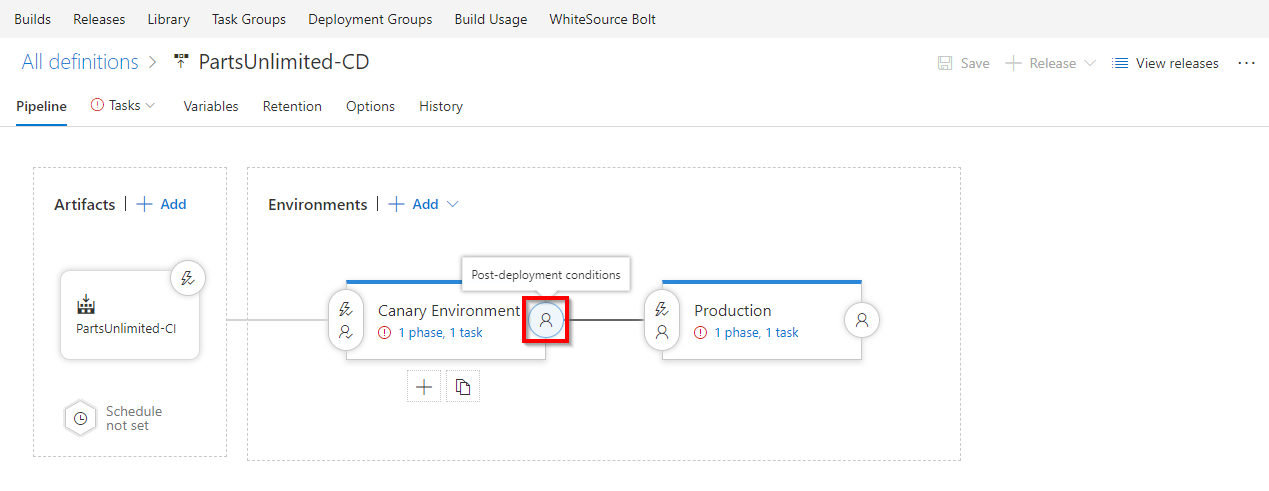
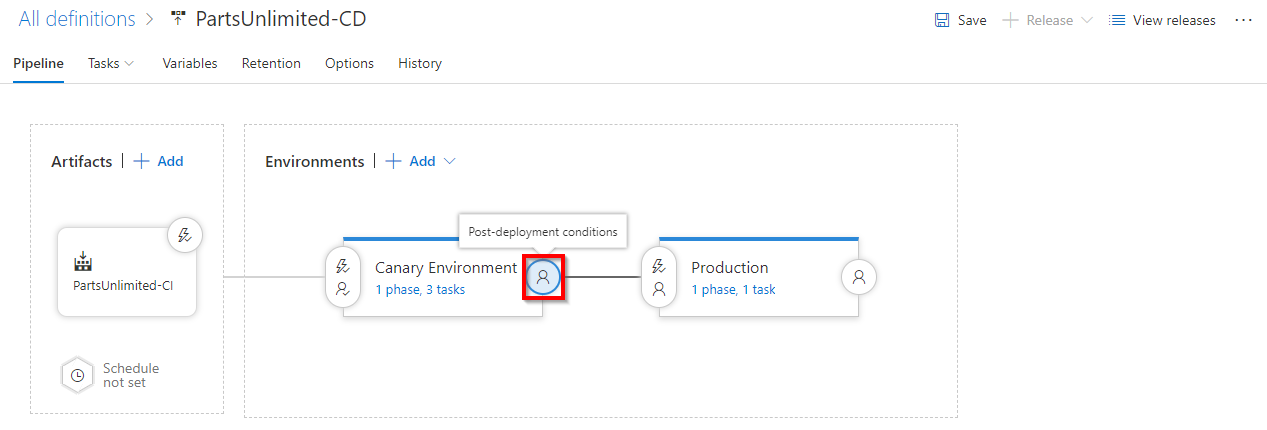
Updated lab contents

diff --git a/readme.md b/readme.md
@@ -27,7 +27,7 @@ If there are any active bugs, deployment will not happen to Canary environment. 
 1. You will need a **Visual Studio Team Services Account**. If you do not have one, you can sign up for free [here](https://www.visualstudio.com/team-services/)
 
 
-1. **Microsoft Azure Account:** You will need a valid and active azure account for the lab
+1. **Microsoft Azure Account:** You will need an active Azure subscription for the lab. You should be an [Owner](https://docs.microsoft.com/en-us/azure/role-based-access-control/built-in-roles#owner), or [Global administrator](https://docs.microsoft.com/en-us/azure/active-directory/active-directory-assign-admin-roles-azure-portal#global-administrator), or [User Account administrator](https://docs.microsoft.com/en-us/azure/active-directory/active-directory-assign-admin-roles-azure-portal#user-account-administrator) on the subsription.
 
 
 
@@ -43,36 +43,20 @@ In this lab we will create two **Web Apps** in Azure to depict two environments 
     
     ![canary_app](images/canary_app.png)
 
-1. Once the deployment succeeds, Go to resource.
+1. Once the deployment succeeds, navigate to your **Resource Group** to see the resources created.
     
     ![deployment_success](images/deployment_success.png)
 
-1. We will see web app and application insights being provisioned. [Application insights](https://azure.microsoft.com/en-in/services/application-insights/) is used to monitor the Web app. Click on **Application Insights** which was created just now.
+1. We will see a Web App and an Application Insights being provisioned.
+[Application Insights](https://azure.microsoft.com/en-in/services/application-insights/) is used to monitor the Web app.
     
     ![select_ai](images/select_ai.png)
 
-1. Note down the **Instrumentation Key** which will be used to configure the SDK in the application.
-
-    ![key](images/key.png)
-
-
-1. Scroll down and click on **Alerts (classic)** in the left pane. Let us add an alert for failed requests. 
- 
-    ![select_alerts](images/select_alerts.png)
-
-1. Click on **+Add metric alert (classic)**.
-
-    ![add_alert](images/add_alert.png)
-
-1. Provide a **Name** for the alert, select **Failed requests** from the dropdown under **Metric**, select **Over the last hour** as **Period** and observe **Condition**, **Threshold** then click **OK**.
-
-    ![alert_details](images/alert_details.png)
-
-1. Repeat **Step 1 & Step 2** to create web app for production.
+1. Repeat **Step 1 & Step 2** to create Web App for production.
 
 ## Setting up the VSTS team project
 
-Use [VSTS Demo Generator](https://demogen.azurewebsites.net/?TemplateId=77375&Name=ReleaseGates) to provision the project on your VSTS account.
+Use [VSTS Demo Generator](https://vstsdemogenerator-test.azurewebsites.net/?TemplateId=77375&Name=ReleaseGates) to provision the project on your VSTS account.
 
    > ***VSTS Demo Generator** helps you create team projects on your VSTS account with sample content that include source code, work items, iterations, service endpoints, build and release definitions based on the template you choose during the configuration.*
 
@@ -94,31 +78,53 @@ Use [VSTS Demo Generator](https://demogen.azurewebsites.net/?TemplateId=77375&Na
 
    ![vstsdemogen_create](images/vstsdemogen_create.png)
 
-## Exercise 1: Service Endpoint creation
+## Exercise 1: Configure Release definition for deploying the app
 
-Service endpoints are a way for VSTS to connect to the external systems or services and they are a bundle of properties securely stored by the VSTS. Service endpoints are created at project scope, hence an endpoint created in one project will not be visible in another project.
+### Update Release Tasks
 
-Since the connections are not established during project provisioning, *Azure Resource Manager* endpoint need to be created manually.
+1. Navigate to **Releases** under **Buid and Release** section and **Edit** release definition **PartsUnlimited-CD**. In this release definition, we have two environments viz. *Canary Environment* & *Production*. Click on **“1 phase, 3 tasks”** link for Canary Environment to update the tasks.
 
-**Azure Resource Manager Service Endpoint**: Defines and secures a connection to a Microsoft Azure subscription using Service Principal Authentication (SPA).
+   ![canary_env](images/canary_env.png)
 
-1. To setup Azure Service endpoint in VSTS, navigate to your Team Project and click on ![gear](images/gear.png) gear icon. Click **Services** tab and click on **+New Service Endpoint** in the left pane. From the drop-down, select **Azure Resource Manager**.
+1. Canary environment has 3 tasks which will publish the package to Azure Web App, enables continuous monitoring of the application after deployment and also Application Insights Alerts will be configured. Let us update the Azure Subscription, Web App and corresponding Application Insights details.
 
-   ![service_endpoint](images/service_endpoint.png) 
+   ![canary_release](images/canary_release.png)
 
-1. Specify **Connection name**, select your **Subscription** from the dropdown and click **OK**. This endpoint will be used to connect VSTS and Azure.
+1. In Azure Subscription field, select your Azure subscription from the dropdown and click on **Authorize**. Provide your credentials to complete the authorization to your Azure account.
 
-   ![](images/endpoint_name.png)
+   ![azure_subscription](images/azure_subscription.png)
 
-    {% include note.html content= "Disable pop-up blocker in your browser if you see a blank screen after clicking OK, and retry the step.
-    
-    By default, **Azure Resource Manager** service endpoints that are automatically configured are created with **Contributor** role in the selected Azure subscription. Access will be restricted to all resources within the specific resource group if a **Resource Group** is selected during the creation of an Azure Resource Manager service endpoint" %}
+   {% include note.html content= "Disable pop-up blocker in your browser if you see a blank screen after clicking Authorize, and retry the step." %}
+
+1. Select the App Service, Resource Group and Application Insights that we created for Canary from the dropdown.
+
+   ![canary_app_details](images/canary_app_details.png)
+
+1. For Production, select the endpoint from the dropdown under *Available Azure service connections*. Pick the App service we created for Production and click on Save.
+
+   ![prod_release](images/prod_release.png)
+
+1. Navigate to **Builds** tab under **Build and Release** section and **Queue new build** for the build definition **PartsUnlimited-CI**.
+
+   ![queue_build](images/queue_build.png)
+
+   ![queue_build1](images/queue_build1.png)
+
+1. After the build succeeds, the Release will be triggered automatically and the application will be deployed to both the environments. Browse the Web site after the application is deployed to both environments.
+
+   ![build1_complete](images/build1_complete.png)
+
+   ![release1_complete](images/release1_complete.png)
+
+1. This would automatically hook the Web App with App Insights and configure the Alerts in Azure.
+
+   ![ai_alerts](images/ai_alerts.png)
 
 ## Exercise 2: Configure Deployment Gates.
 
 ### Enabling Pre-deployment Gate
 
-1. Go to **Releases** under **Buid and Release** section and **Edit** release definition **PartsUnlimited-CD**.
+1. Go to **Releases** and **Edit** release definition **PartsUnlimited-CD**.
 
    ![edit_release](images/edit_release.png)
 
@@ -150,7 +156,9 @@ Since the connections are not established during project provisioning, *Azure Re
 
    >*Timeout after which gates fail:* The maximum evaluation period for all gates. The deployment will be rejected if the timeout is reached before all gates succeed during the same sampling interval. The minimum value we can specify for timeout is 6 minutes and 5 minutes for sampling interval.
 
-   In this example, we have set **Delay before evaluation** as *5 minutes* (so that we can see the results reasonably quick.), **Time between re-evaluation of gates** as *5 minutes* (sampling interval) and **Timeout after which gates fail** as *12 minutes*. When the release is triggered, gate will validate the samples at *0<sup>th</sup> and 5<sup>th</sup> minutes*. However, no action will be taken based on outcome of these two samples until the next sample validates at *10<sup>th</sup> minute*. If the result is "**Pass**", notification will be sent for approval. If the result is "**Fail**", the release will time-out after *12<sup>th</sup> minute*.
+   For this demo purpose, we have set **Delay before evaluation** as *5 minutes* (so that we can see the results reasonably quick.), **Time between re-evaluation of gates** as *5 minutes* (sampling interval) and **Timeout after which gates fail** as *8 minutes* but in reality the durations will be in hours sometime. When the release is triggered, gate will validate the samples at *0<sup>th</sup> and 5<sup>th</sup> minutes*. If the result is "**Pass**", notification will be sent for approval. If the result is "**Fail**", the release will time-out after *8<sup>th</sup> minute*.
+
+   Select **On successful gates, ask for approvals** radio button.
 
    ![gate_duration](images/gate_duration.png)
 
@@ -168,30 +176,16 @@ Since the connections are not established during project provisioning, *Azure Re
 
    ![monitor_details](images/monitor_details.png)
 
-1.  Expand the **Evaluation options** and specify the *delay*, *timeout* and the *sampling interval*. 
+1.  Expand the **Evaluation options** and specify the *delay*, *sampling interval* and the *timeout*. Select **On successful gates, ask for approvals** radio button.
 
     ![post_deployment_gates](images/post_deployment_gates.png)
 
     >The sampling interval and timeout work together so that the gates will call their functions at suitable intervals and reject the deployment if they don't succeed during the same sampling interval within the timeout period. 
 
-### Update Release Task
+## Exercise 3: Deploy app update after adding release gates 
+In this exercise, we will make a small code change in the application and commit to the repository which in turn triggers build and release.
 
-1. In this release definition, we have two environments viz. *Canary Environment* & *Production*. Click on Canary Environment to update the tasks.
-
-   ![canary_env](images/canary_env.png)
-
-1. Each environment has a single task which will publish the package to Azure Web App. Let us update the Azure web app details.
-
-   ![canary_release](images/canary_release.png)
-
-1. Update the tasks in Production environment and save.
-
-   ![prod_release](images/prod_release.png)
-
-## Exercise 3: Configure Application Insights 
-In this exercise, we will update the code with *Instrumentation key* generated in application insights. 
-
-1. Go to **Code** tab. Navigate to path *"src/PartsUnlimitedWebsite/appsettings.json"* and update application insights instrumentation key in **line 3**.
+1. Go to **Code** tab. Navigate to path *"src/PartsUnlimitedWebsite/Views/Home/Index.cshtml"* and modify the content from ***"20%"*** to ***"30%"*** in **line 30**.
 
    ![update_key](images/update_key.png)
 
@@ -199,7 +193,7 @@ In this exercise, we will update the code with *Instrumentation key* generated i
    
    ![commit](images/commit.png)
 
-1. The build will automatically trigger as we have Continuous Integration (CI) trigger type enabled in the Build definition. Once the Build succeeds, navigate to the **Releases** tab. You will notice the release have been triggered after the successful build.
+1. The build will automatically trigger as we have Continuous Integration (CI) trigger type enabled in the build definition. Once the build succeeds, navigate to the **Releases** tab. You will notice the release have been triggered after the successful build.
 
 1. Go to Release logs to see the progress. We will see Query Work Items have failed in delay before evaluation, which indicates there are active bugs. These bugs should be closed in-order to proceed further. Next sampling time will be after 5 minutes.
 
@@ -210,7 +204,7 @@ In this exercise, we will update the code with *Instrumentation key* generated i
 
    ![goto_queries](images/goto_queries.png)
 
-1. Select **Bugs** under **Shared Queries**
+1. Select **Bugs** under **Shared Queries**.
 
    ![bugs](images/bugs.png)
 
@@ -237,7 +231,7 @@ Azure Portal and click on **Browse**.
 
    ![browse](images/browse.png)
 
-1. After application is launched, click on **More**. We will encounter with an error page. Do this couple of times for triggering alert.
+1. After application is launched, click on **More**. We will encounter with an error page. Do this couple of times to trigger alerts.
 
    >This error scenario is just for the purpose of the lab and in real world, analysis of the alert and a resolution like “disabling a feature flag” or “upgrading the infra” would be realistic.
 
@@ -255,6 +249,7 @@ Azure Portal and click on **Browse**.
 
    ![timeout](images/timeout.png)
   
+   ![release_failed](images/release_failed.png)
 
 Gates ensures that the release waits for us to react to the feedback and fix any issues within a timeout period. The gate-samples continue to fail and the deployment waits until the issues are fixed. Once the issues are fixed, the next sample from the gates becomes successful and the deployment automatically proceeds.
 
